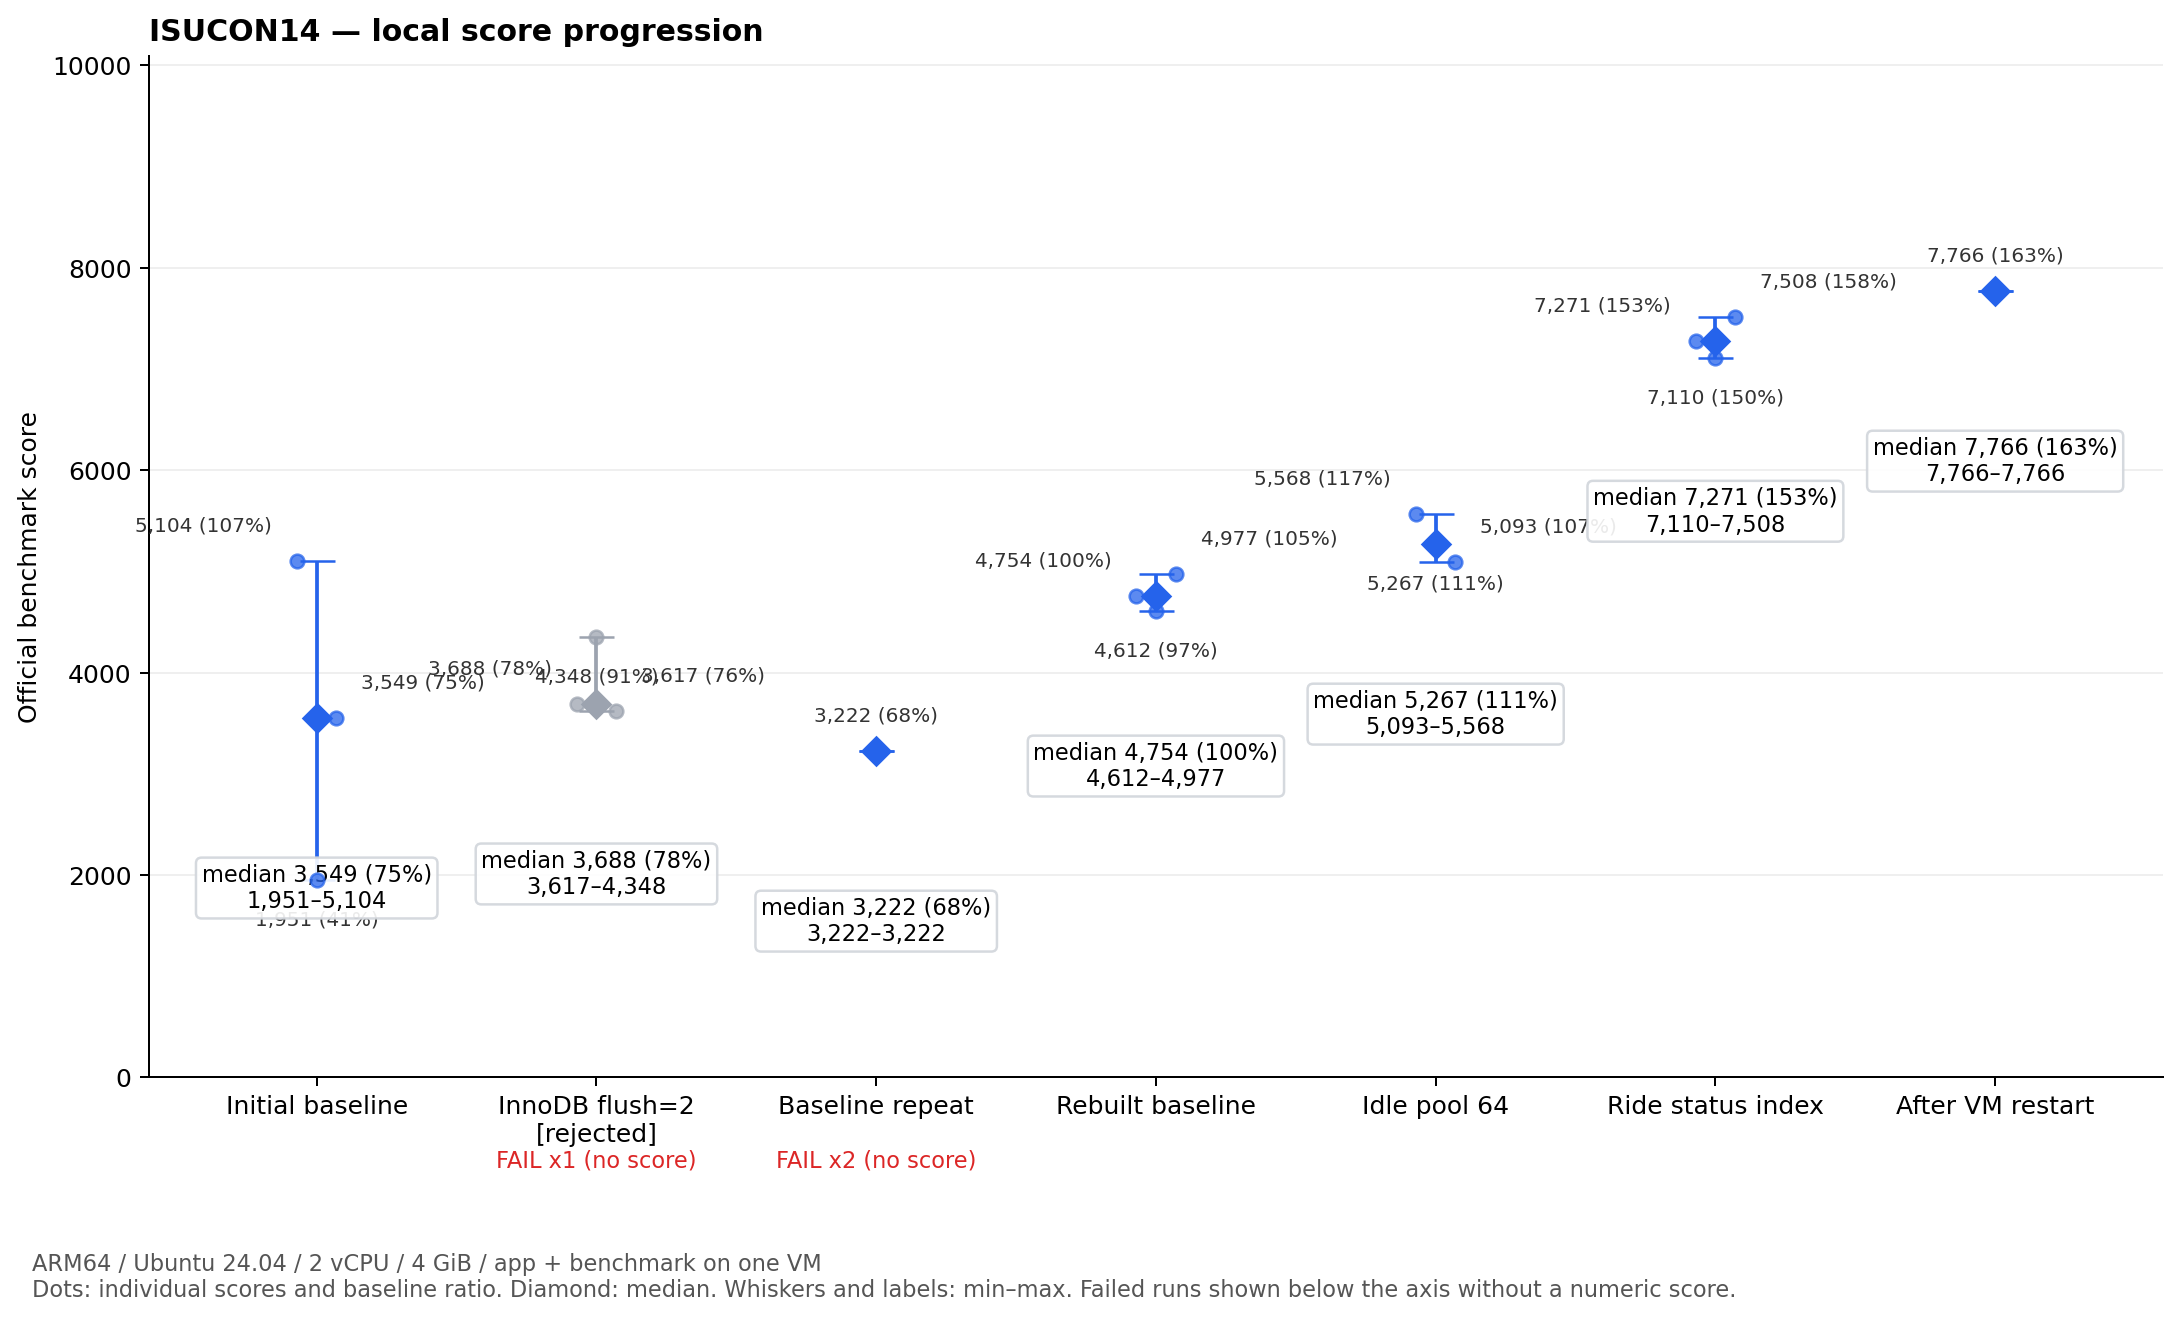
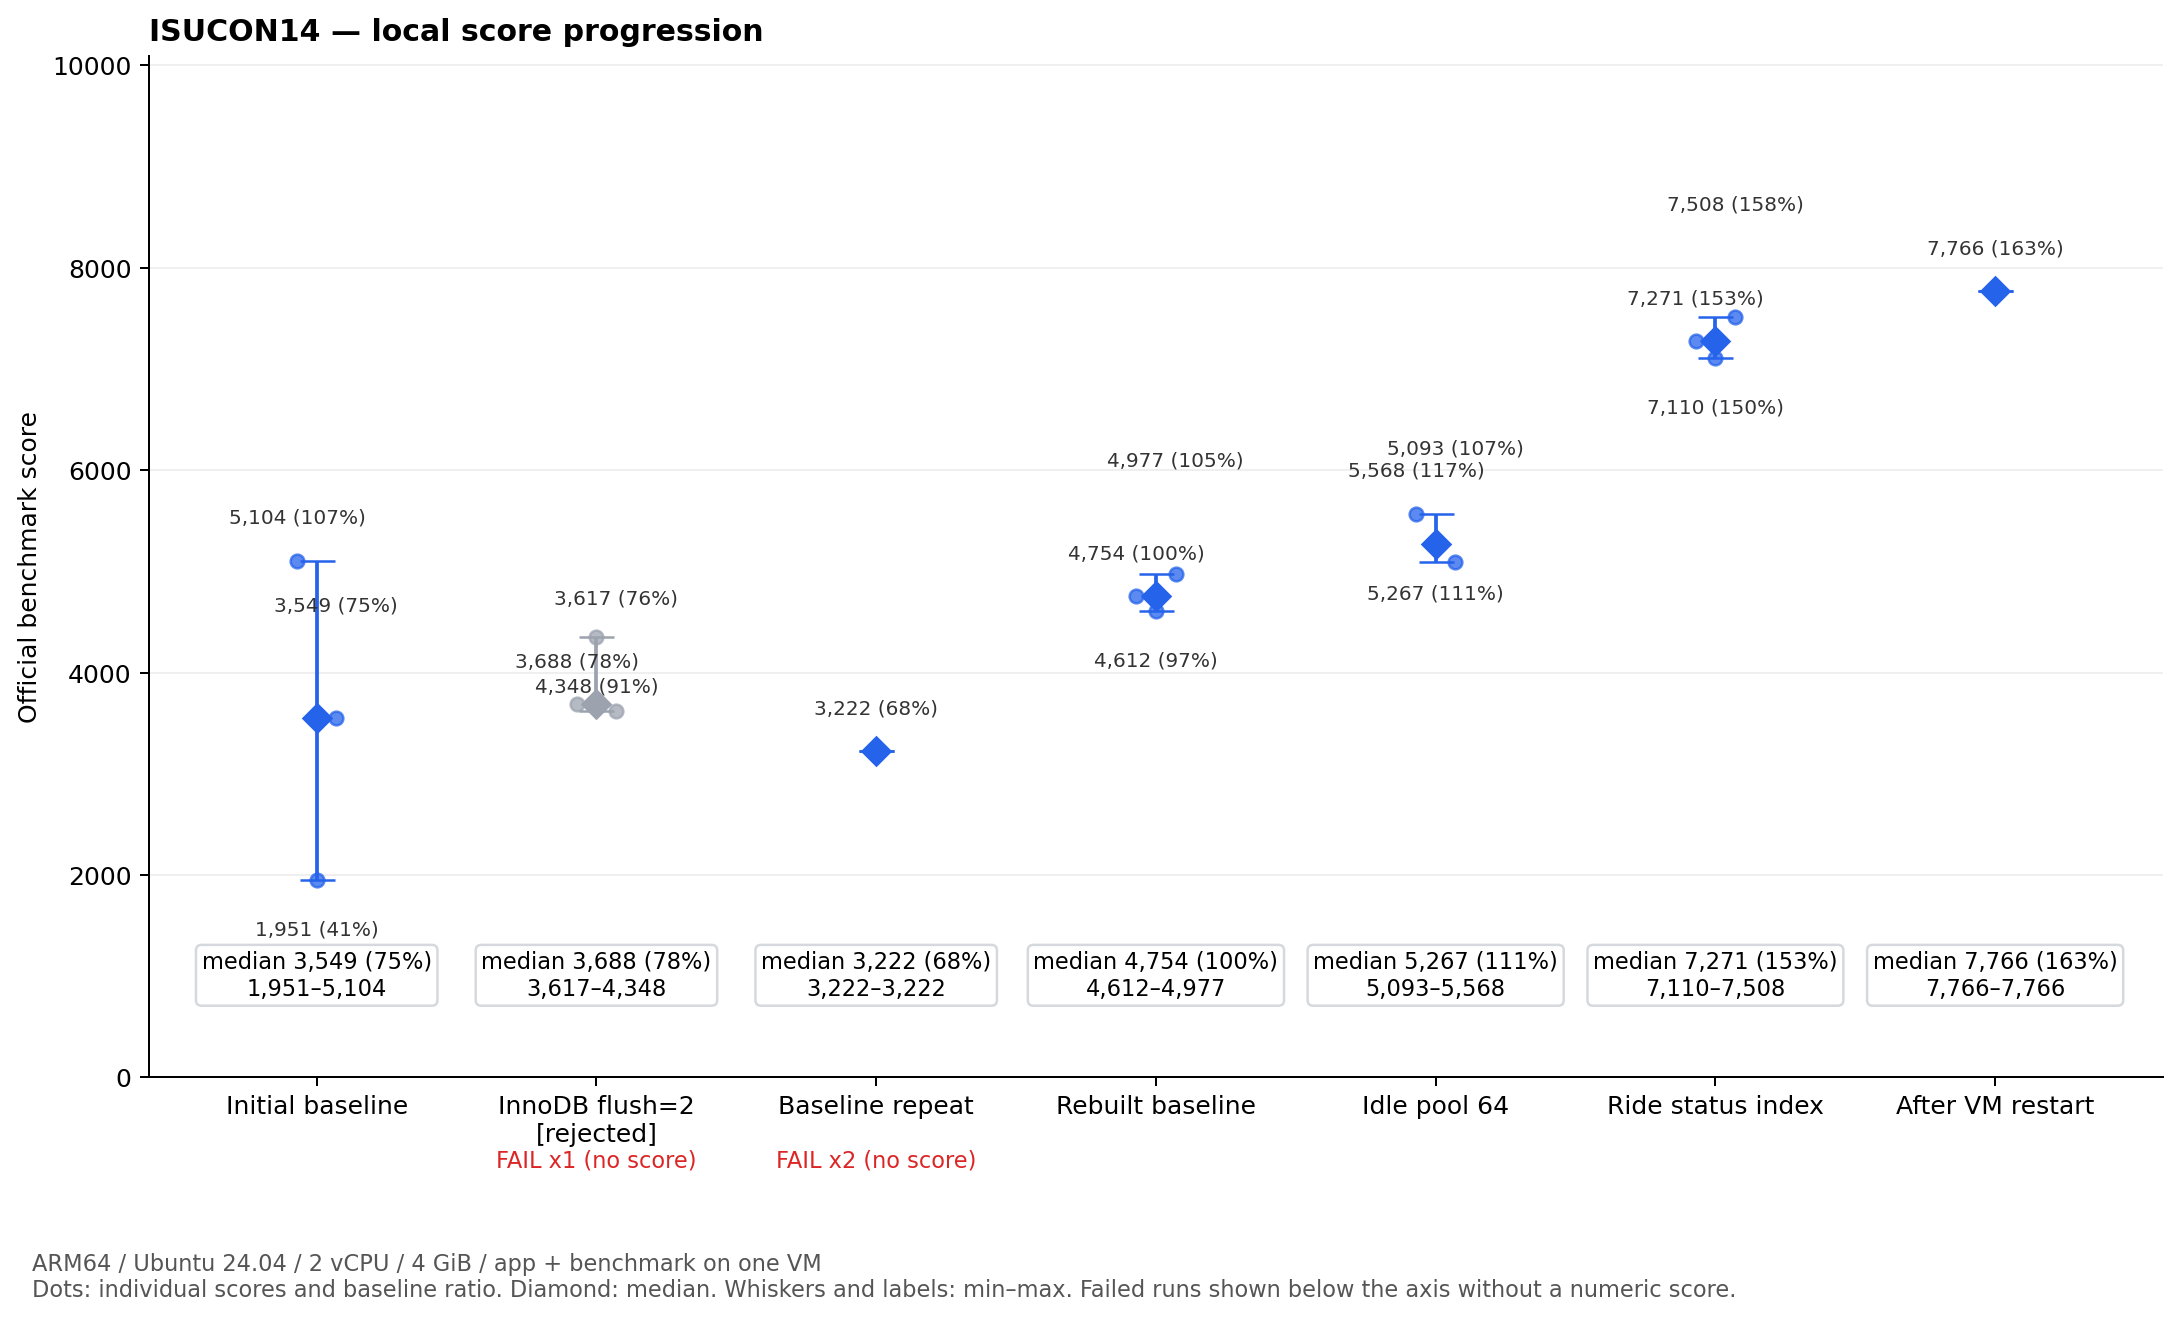
全段階のスコア注釈を読みやすく配置

diff --git a/local-benchmark/tools/plot_scores.py b/local-benchmark/tools/plot_scores.py
@@ -35,14 +35,12 @@ for x, stage in enumerate(present):
         for index, (offset, score) in enumerate(zip(offsets, scores)):
             ax.scatter(x + offset, score, color=color, alpha=.75, s=30, zorder=4)
             ratio = f" ({score / base:.0%})" if base else ""
-            vertical = 12 if index % 2 == 0 else -18
-            horizontal = (index - (len(scores) - 1) / 2) * 10
-            align = "right" if index < (len(scores) - 1) / 2 else "left" if index > (len(scores) - 1) / 2 else "center"
-            ax.annotate(f"{score:,}{ratio}", (x + offset, score), xytext=(horizontal, vertical), textcoords="offset points", ha=align, fontsize=8, color="#333333")
+            vertical = [15, -22, 43][index % 3]
+            ax.annotate(f"{score:,}{ratio}", (x + offset, score), xytext=(0, vertical), textcoords="offset points", ha="center", fontsize=8, color="#333333")
         base_ratio = f" ({median / base:.0%})" if base else ""
         ax.annotate(
             f"median {median:,.0f}{base_ratio}\n{min(scores):,}–{max(scores):,}",
-            (x, median), xytext=(0, -58), textcoords="offset points", ha="center", va="top", fontsize=9,
+            (x, .10), xycoords=ax.get_xaxis_transform(), ha="center", va="center", fontsize=9,
             bbox={"boxstyle": "round,pad=0.25", "facecolor": "white", "edgecolor": "#d1d5db", "alpha": .9},
         )
     failures = sum(r["status"] == "failed" for r in rows)
